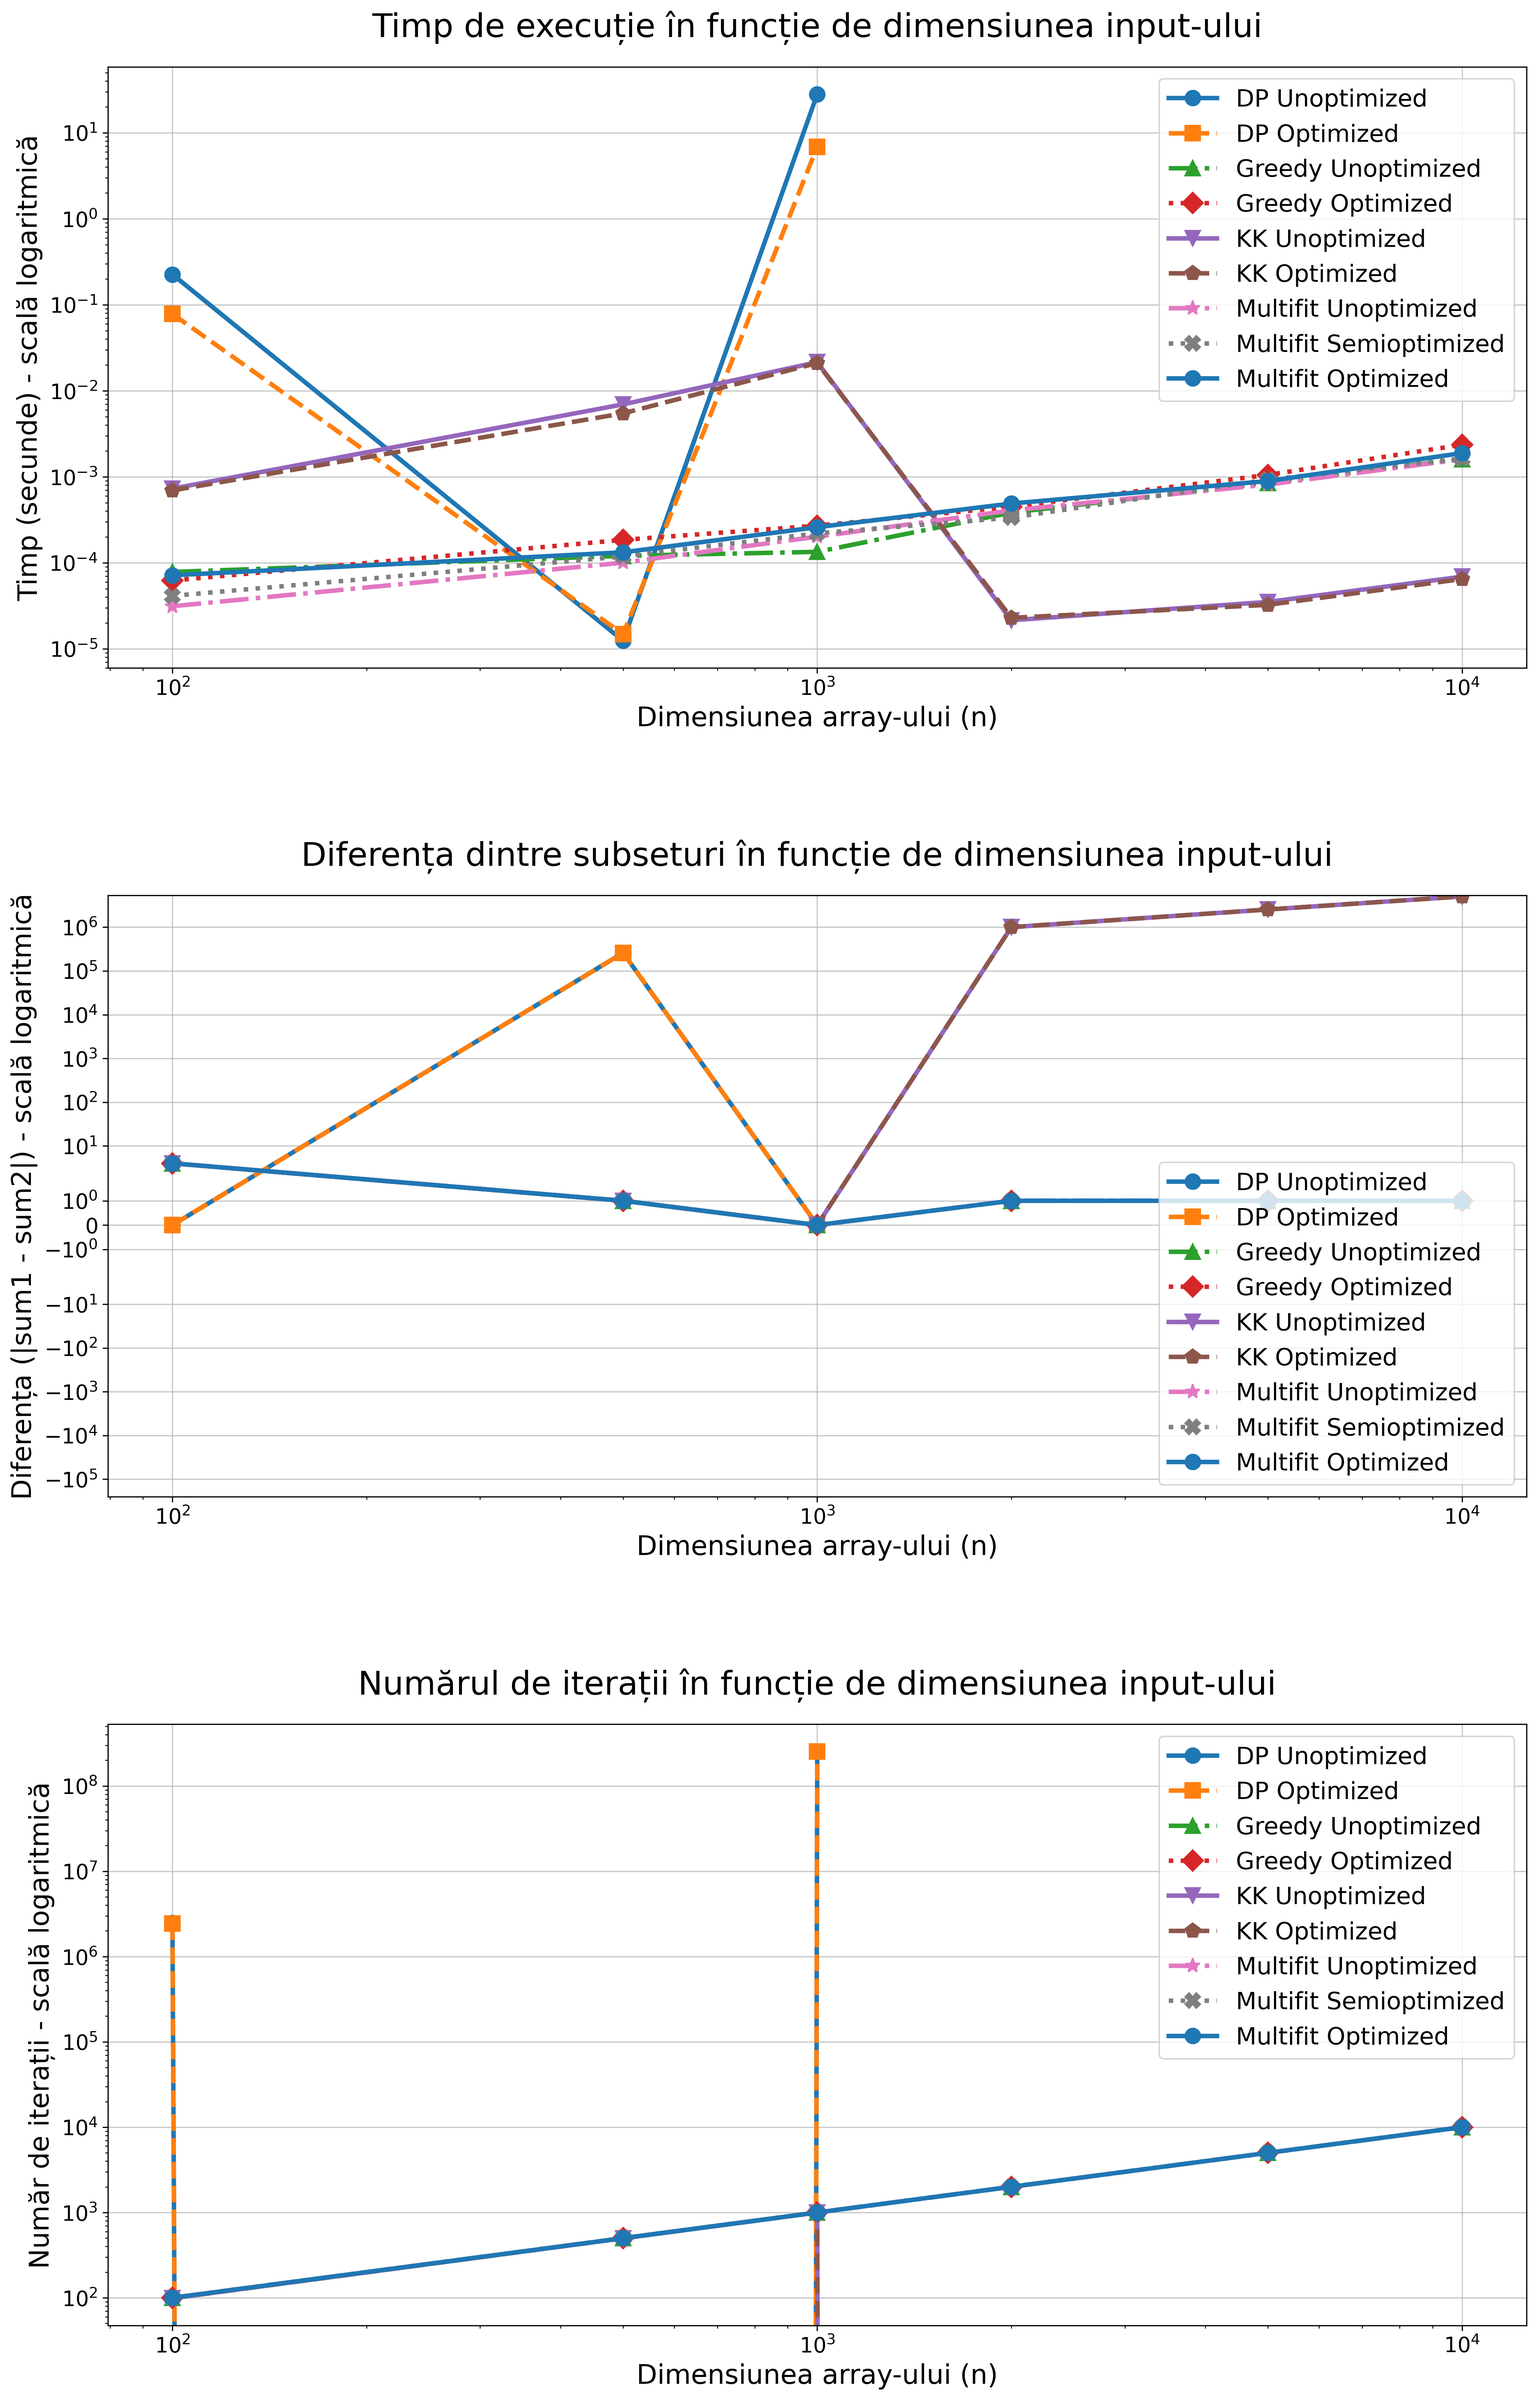
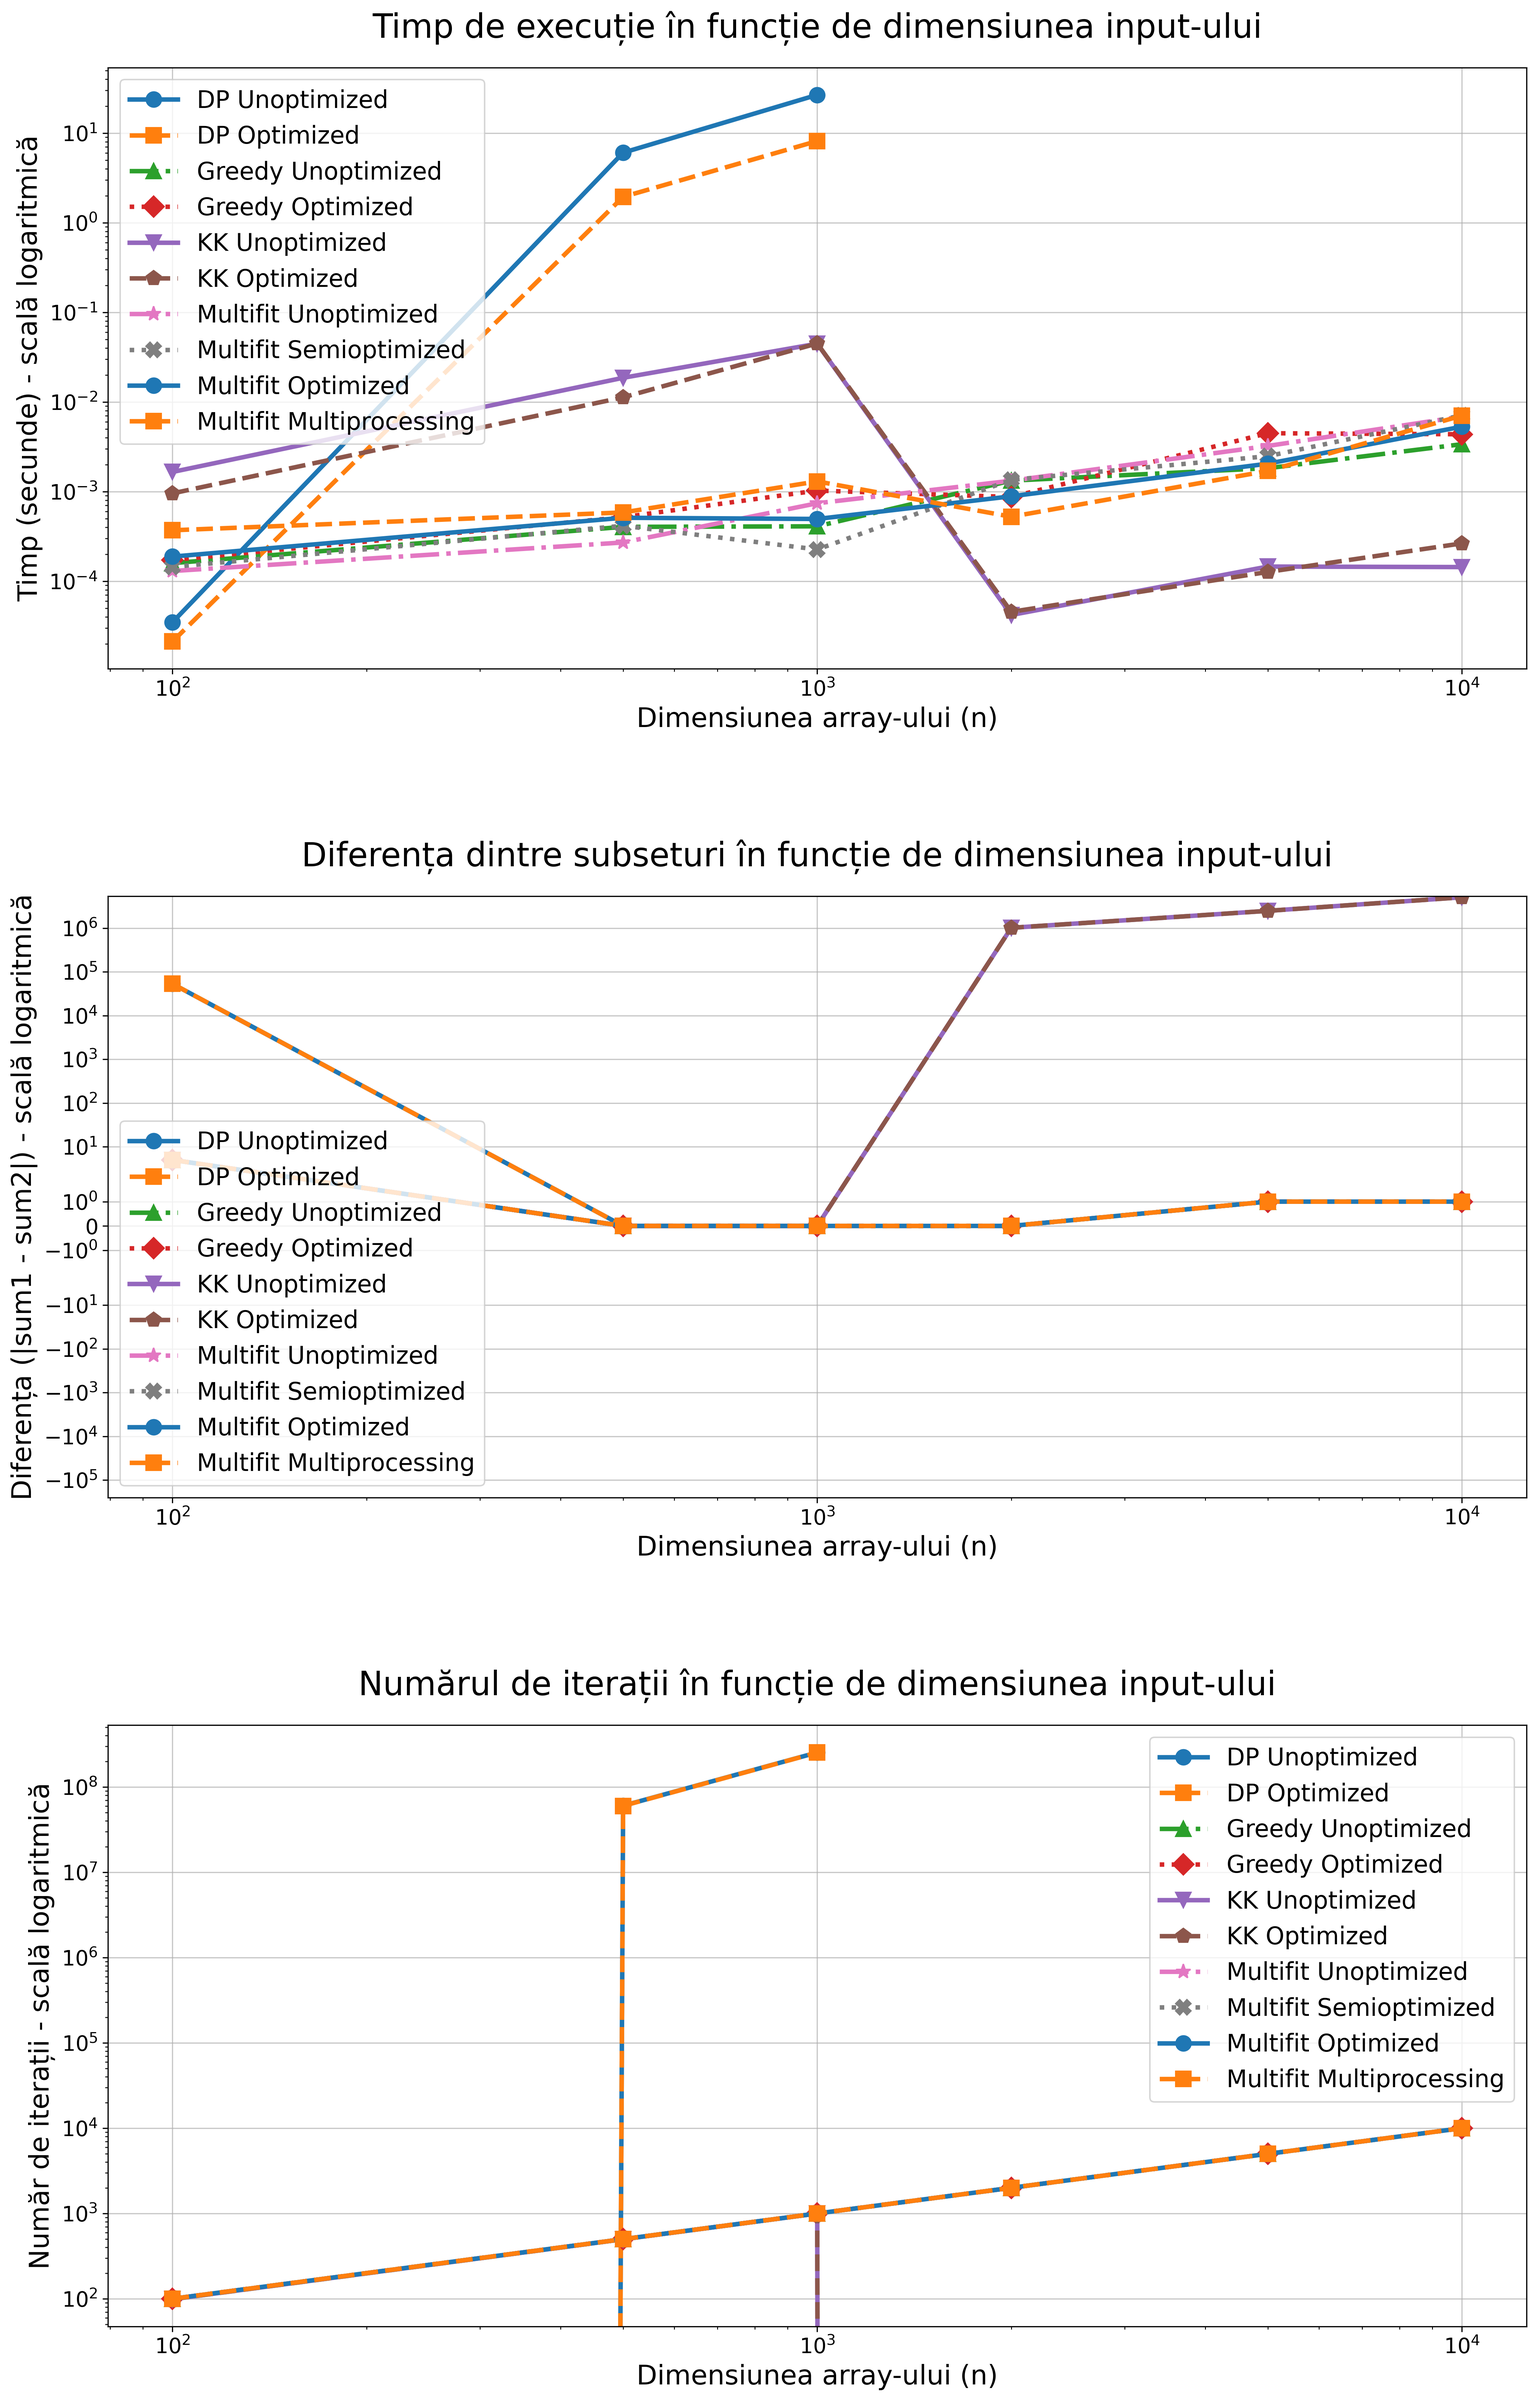
Update

diff --git a/deepseek_multifit/multifit_multiprocessing.py b/deepseek_multifit/multifit_multiprocessing.py
@@ -1,5 +1,6 @@
 from concurrent.futures import ProcessPoolExecutor
 import time
+import multiprocessing
 from multiprocessing import cpu_count
 
 def assign_elements(chunk):
@@ -19,14 +20,19 @@ def solve_parallel(arr):
     start_time = time.time()
     arr_sorted = sorted(arr, reverse=True)
     n = len(arr_sorted)
-    
+
     # Avoid excessive processes for small datasets
     optimal_processes = min(cpu_count(), max(1, n // 1000))
     chunk_size = max(1, n // optimal_processes)
     chunks = [arr_sorted[i*chunk_size : (i+1)*chunk_size] for i in range(optimal_processes)]
-    
-    with ProcessPoolExecutor(max_workers=optimal_processes) as executor:
-        results = list(executor.map(assign_elements, chunks))
+
+    # If already inside a daemon process, run sequentially to avoid nested multiprocessing error
+    current = multiprocessing.current_process()
+    if current.daemon or optimal_processes <= 1:
+        results = [assign_elements(chunk) for chunk in chunks]
+    else:
+        with ProcessPoolExecutor(max_workers=optimal_processes) as executor:
+            results = list(executor.map(assign_elements, chunks))
     
     # Combine results iteratively to minimize difference
     final_subset1, final_subset2 = [], []

diff --git a/visualizer.py b/visualizer.py
@@ -1,3 +1,5 @@
+import matplotlib
+matplotlib.use('TkAgg')
 import matplotlib.pyplot as plt
 import numpy as np
 import time

diff --git a/multifit_performance_report.md b/multifit_performance_report.md
@@ -10,23 +10,23 @@ Acest raport prezintă rezultatele comparative ale performanței diferitelor imp
 
 | Dimensiune | DP Unoptimized | DP Optimized | Greedy Unoptimized | Greedy Optimized | KK Unoptimized | KK Optimized | Multifit Unoptimized | Multifit Semioptimized | Multifit Optimized | Multifit Multiprocessing |
 |-----------|--------------------|--------------------|--------------------|--------------------|--------------------|--------------------|--------------------|--------------------|--------------------|--------------------|
-| 10 | 0.002044 | 0.000907 | 0.000012 | 0.000032 | 0.000056 | 0.000038 | 0.000010 | 0.000011 | 0.000017 | N/A |
-| 20 | 0.009382 | 0.004443 | 0.000017 | 0.000025 | 0.000068 | 0.000051 | 0.000014 | 0.000011 | 0.000024 | N/A |
-| 30 | 0.019644 | 0.007738 | 0.000012 | 0.000032 | 0.000085 | 0.000083 | 0.000011 | 0.000010 | 0.000025 | N/A |
-| 40 | 0.035580 | 0.012161 | 0.000019 | 0.000040 | 0.000137 | 0.000146 | 0.000018 | 0.000018 | 0.000030 | N/A |
-| 50 | 0.050199 | 0.018733 | 0.000019 | 0.000039 | 0.000178 | 0.000146 | 0.000018 | 0.000020 | 0.000039 | N/A |
-| 100 | 0.217481 | 0.075895 | 0.000037 | 0.000047 | 0.000324 | 0.000314 | 0.000037 | 0.000042 | 0.000048 | N/A |
+| 10 | 0.006368 | 0.002079 | 0.000033 | 0.000074 | 0.000182 | 0.000174 | 0.000027 | 0.000031 | 0.000044 | 0.000161 |
+| 20 | 0.018545 | 0.007786 | 0.000017 | 0.000058 | 0.000199 | 0.000213 | 0.000036 | 0.000020 | 0.000059 | 0.000190 |
+| 30 | 0.026326 | 0.015495 | 0.000027 | 0.000082 | 0.000307 | 0.000199 | 0.000042 | 0.000040 | 0.000029 | 0.000119 |
+| 40 | 0.074095 | 0.029376 | 0.000053 | 0.000109 | 0.000165 | 0.000384 | 0.000010 | 0.000049 | 0.000019 | 0.000209 |
+| 50 | 0.000016 | 0.000016 | 0.000031 | 0.000065 | 0.000516 | 0.000494 | 0.000037 | 0.000034 | 0.000086 | 0.000162 |
+| 100 | 0.000025 | 0.000023 | 0.000069 | 0.000187 | 0.001217 | 0.000628 | 0.000113 | 0.000123 | 0.000099 | 0.000197 |
 
 ### Diferența dintre Subseturi
 
 | Dimensiune | DP Unoptimized | DP Optimized | Greedy Unoptimized | Greedy Optimized | KK Unoptimized | KK Optimized | Multifit Unoptimized | Multifit Semioptimized | Multifit Optimized | Multifit Multiprocessing |
 |-----------|--------------------|--------------------|--------------------|--------------------|--------------------|--------------------|--------------------|--------------------|--------------------|--------------------|
-| 10 | 4754 | 4754 | 28 | 28 | 28 | 28 | 28 | 28 | 28 | N/A |
-| 20 | 0 | 0 | 28 | 28 | 28 | 28 | 28 | 28 | 28 | N/A |
-| 30 | 0 | 0 | 4 | 4 | 4 | 4 | 4 | 4 | 4 | N/A |
-| 40 | 0 | 0 | 44 | 44 | 44 | 44 | 44 | 44 | 44 | N/A |
-| 50 | 0 | 0 | 14 | 14 | 14 | 14 | 14 | 14 | 14 | N/A |
-| 100 | 0 | 0 | 16 | 16 | 16 | 16 | 16 | 16 | 16 | N/A |
+| 10 | 4150 | 4150 | 6 | 6 | 6 | 6 | 6 | 6 | 6 | 6 |
+| 20 | 0 | 0 | 78 | 78 | 78 | 78 | 78 | 78 | 78 | 78 |
+| 30 | 0 | 0 | 12 | 12 | 12 | 12 | 12 | 12 | 12 | 12 |
+| 40 | 0 | 0 | 54 | 54 | 54 | 54 | 54 | 54 | 54 | 54 |
+| 50 | 22721 | 22721 | 1 | 1 | 1 | 1 | 1 | 1 | 1 | 1 |
+| 100 | 49257 | 49257 | 3 | 3 | 3 | 3 | 3 | 3 | 3 | 3 |
 
 ## Rezultate pentru Dimensiuni Medii (100-10,000 elemente)
 
@@ -34,12 +34,12 @@ Acest raport prezintă rezultatele comparative ale performanței diferitelor imp
 
 | Dimensiune | DP Unoptimized | DP Optimized | Greedy Unoptimized | Greedy Optimized | KK Unoptimized | KK Optimized | Multifit Unoptimized | Multifit Semioptimized | Multifit Optimized | Multifit Multiprocessing |
 |-----------|--------------------|--------------------|--------------------|--------------------|--------------------|--------------------|--------------------|--------------------|--------------------|--------------------|
-| 100 | 0.224936 | 0.078236 | 0.000078 | 0.000062 | 0.000728 | 0.000694 | 0.000031 | 0.000041 | 0.000072 | N/A |
-| 500 | 0.000012 | 0.000015 | 0.000120 | 0.000185 | 0.006950 | 0.005464 | 0.000100 | 0.000118 | 0.000132 | N/A |
-| 1000 | 28.094402 | 6.880338 | 0.000134 | 0.000270 | 0.021492 | 0.021004 | 0.000201 | 0.000220 | 0.000259 | N/A |
-| 2000 | N/A | N/A | 0.000383 | 0.000448 | 0.000021 | 0.000023 | 0.000406 | 0.000335 | 0.000489 | N/A |
-| 5000 | N/A | N/A | 0.000850 | 0.001051 | 0.000035 | 0.000032 | 0.000812 | 0.000925 | 0.000892 | N/A |
-| 10000 | N/A | N/A | 0.001607 | 0.002355 | 0.000069 | 0.000065 | 0.001595 | 0.001631 | 0.001884 | N/A |
+| 100 | 0.000035 | 0.000021 | 0.000159 | 0.000173 | 0.001655 | 0.000955 | 0.000130 | 0.000144 | 0.000188 | 0.000370 |
+| 500 | 6.045766 | 1.941970 | 0.000404 | 0.000518 | 0.018596 | 0.011260 | 0.000270 | 0.000416 | 0.000510 | 0.000585 |
+| 1000 | 26.680928 | 8.147529 | 0.000410 | 0.001026 | 0.044679 | 0.044943 | 0.000741 | 0.000226 | 0.000495 | 0.001299 |
+| 2000 | N/A | N/A | 0.001324 | 0.000871 | 0.000042 | 0.000046 | 0.001321 | 0.001351 | 0.000886 | 0.000524 |
+| 5000 | N/A | N/A | 0.001825 | 0.004478 | 0.000146 | 0.000127 | 0.003229 | 0.002483 | 0.002048 | 0.001699 |
+| 10000 | N/A | N/A | 0.003377 | 0.004361 | 0.000144 | 0.000264 | 0.006879 | 0.007081 | 0.005299 | 0.007037 |
 
 ## Rezultate pentru Dimensiuni Mari (100-1,000,000 elemente)
 
@@ -47,8 +47,8 @@ Acest raport prezintă rezultatele comparative ale performanței diferitelor imp
 
 | Dimensiune | Multifit Optimizat | Multifit Optimizat Multiprocessing |
 |-----------|--------------------|--------------------|
-| 100000 | 0.018170 | 0.053534 |
-| 1000000 | 0.235318 | 0.206709 |
+| 100000 | 0.030007 | 0.115484 |
+| 1000000 | 0.356162 | 0.454568 |
 
 ## Concluzii
 
